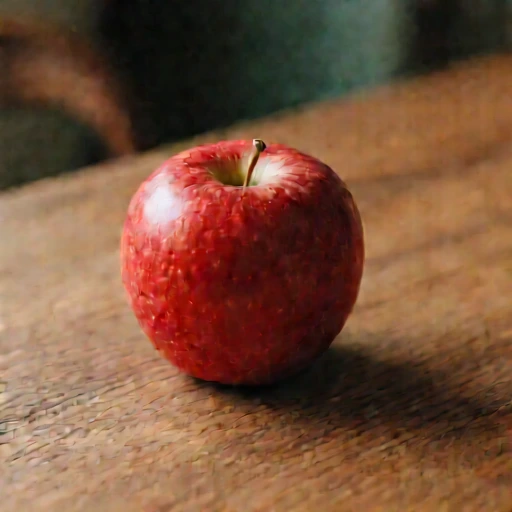
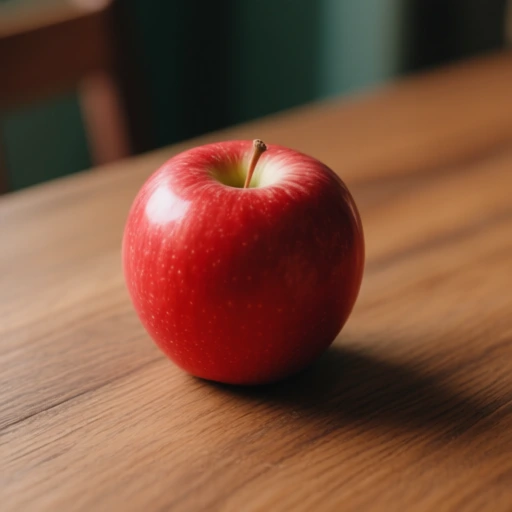
Build the Qwen example with the documented mixed-precision recipe

diff --git a/EXAMPLES.md b/EXAMPLES.md
@@ -73,20 +73,25 @@ Correctness is gated by committed parity fixtures: the decode and encode paths m
 taew2.1 reference to within ~3e-6 (fp32).
 
 Recipe: Qwen-Image, prompt `"a red apple on a wooden table"`, seed 42, 512×512, 20 steps (mflux's
-own CLI default for this model), guidance 3.5, int4, M1 Max. Reproduce:
+own CLI default for this model), guidance 3.5, M1 Max. The build uses the published
+mixed-precision recipe (bf16 for a few embedding/output modules, 8-bit for the transformer's
+first and last six blocks, 4-bit for the rest) instead of plain `quantize=4`, which removes a
+reticulated skin-texture artifact the uniform-int4 build shows on this model:
+https://ineshin.space/papers/qwen-image-mixed-precision-on-a-32-gb-mac/. Reproduce:
 
 ```
 uv run python scripts/capture_examples.py --variant qwen-image
 ```
 
-| step 14 | step 17 | final |
+| step 14 | step 18 | final |
 |---|---|---|
-| ![qi14](_artifacts/examples/qwen-image/qwen-image_step14.webp) | ![qi17](_artifacts/examples/qwen-image/qwen-image_step17.webp) | ![qif](_artifacts/examples/qwen-image/qwen-image_final.webp) |
+| ![qi14](_artifacts/examples/qwen-image/qwen-image_step14.webp) | ![qi18](_artifacts/examples/qwen-image/qwen-image_step18.webp) | ![qif](_artifacts/examples/qwen-image/qwen-image_final.webp) |
 
-The taew2.1 preview stays undifferentiated noise through roughly the first two-thirds of this
-20-step run: steps 2 and 10 both show nothing, and the apple only starts resolving around step 14.
-That's later than every other variant in this document, so a live preview registered on Qwen-Image
-earns its keep mainly in the back half of a run.
+The taew2.1 preview stays undifferentiated noise through roughly the first half of this 20-step
+run: steps 2 and 10 both show nothing. The apple starts resolving around step 12, step 14
+(pictured) is already a rough but recognizable shape, and step 18 is close to the final image.
+Structure emerges later here than in every other variant in this document, so a live preview
+registered on Qwen-Image earns its keep mainly in the back half of a run.
 
 Qwen-Image is a ~20B model: running it back to back with the other captures in one chained pass
 hit a Metal command-buffer out-of-memory error, and the frames above came from rerunning that one
